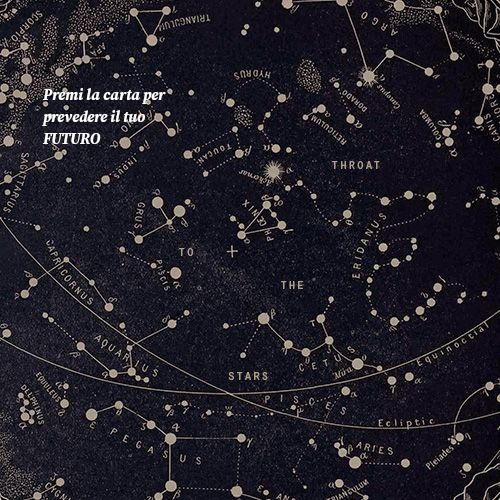
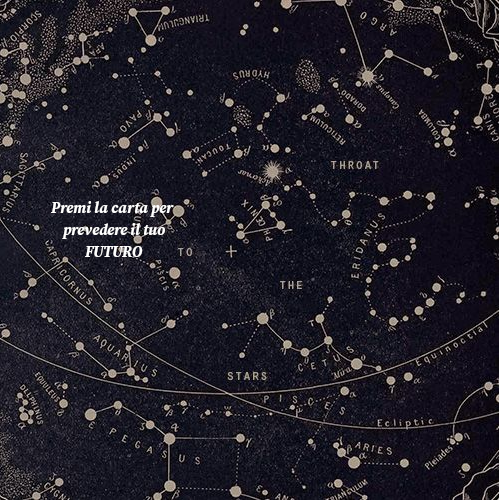
sistemazione scritte e poco altro

diff --git a/objects.py b/objects.py
@@ -4,7 +4,7 @@ import sys
 from pygame.locals import *
 import random
 
-#problemi uguali/simili sia con sfera che con carta, le scritte compaiono solo per poco (non stampa anche le carte)
+
 
 
 #text_font = pygame.font.SysFont("Spectral" , 30)
@@ -49,7 +49,7 @@ class Button():
 class Carta():    
     def __init__(self, screen, pos, size) -> None:
         self.screen = screen
-        self.rect = pygame.Rect(pos[0], pos[1], size[0], size[1]) #questi dati andranno cabiati ma per ora fingeremo che andranno bene
+        self.rect = pygame.Rect(pos[0], pos[1], size[0], size[1]) 
         self.image = pygame.image.load('immagini/dietro.png')
         self.image = pygame.transform.scale(self.image, size)
 
@@ -68,117 +68,149 @@ class Carta():
 
     def genera(self,size):
         n= random.randint(0,22)   
-                 #tutte le dimensioni e posizioni sono messe momentaneamente a caso
+                 
         if n== 0:
-            self.image = pygame.image.load('immagini/mattovero.png')
+            self.image = pygame.image.load('immagini/mattoveroo.png')
             self.image = pygame.transform.scale(self.image, size)
-            self.draw_text("intraprenderai un nuovo viaggio, un nuovo inizio,guidato dai tuoi soli istinti che ", self.draw_text, (255,255,255), 65,510)
-            self.draw_text("ti condurranno attraverso nuove strade che si possono rivelare sia positive che negative.", self.draw_text, (255,255,255), 65,525)
+            self.draw_text("intraprenderai un nuovo viaggio, un nuovo inizio,guidato dai tuoi soli istinti che ", self.draw_text, (255,255,255), 50,510)
+            self.draw_text("ti condurranno attraverso nuove strade che si possono rivelare sia positive che negative.", self.draw_text, (255,255,255), 50,525)
         
         elif n==1:
             self.image = pygame.image.load('immagini/magovero.png')
             self.image = pygame.transform.scale(self.image, size)
-            self.draw_text("La tua grande volontà farà si che seguendo la ragione riuscirai a portare a termine ", self.draw_text, (255,255,255), 65,510)
-            self.draw_text("tutti i tuoi progetti e riuscirai a raggiungere i tuoi più grandi obbiettivi.", self.draw_text, (255,255,255), 65,525)
+            self.draw_text("La tua grande volontà farà si che seguendo la ragione riuscirai a portare a termine ", self.draw_text, (255,255,255), 50,510)
+            self.draw_text("tutti i tuoi progetti e riuscirai a raggiungere i tuoi più grandi obbiettivi.", self.draw_text, (255,255,255), 50,525)
+        
         elif n==2:
             self.image = pygame.image.load('immagini/pretessa.png')
             self.image = pygame.transform.scale(self.image, size)
-            self.draw_text("Il periodo difficile che stai affrontando non durerà per sempre, è necessario che tu porti pazienza e faccia affidamento alla tua intuizione.", self.draw_text, (255,255,255), 220,150)
-       
+            self.draw_text("Il periodo difficile che stai affrontando non durerà per sempre, ", self.draw_text, (255,255,255), 50,510)
+            self.draw_text("è necessario che tu porti pazienza e faccia affidamento alla tua intuizione.", self.draw_text, (255,255,255), 50,525)
+        
         elif n==3:
             self.image = pygame.image.load('immagini/imperatrice.png')
             self.image = pygame.transform.scale(self.image, size)
-            self.draw_text("La ricchezza non è l'unico tipo di abbndanza esistente, e tu stai attraendo proprio uno di questi, si consapevole delle tue doti e delle tue capacità perchè gli altri lo sono.", self.draw_text, (255,255,255), 220,150)
+            self.draw_text("La ricchezza non è l'unico tipo di abbndanza esistente, e tu stai attraendo proprio ", self.draw_text, (255,255,255), 50,510)
+            self.draw_text("uno di questi, si consapevole delle tue doti e delle tue capacità perchè gli altri lo sono.", self.draw_text, (255,255,255), 50,525)
        
         elif n==4:
             self.image = pygame.image.load('immagini/imperatore.png')
             self.image = pygame.transform.scale(self.image, size)
-            self.draw_text("Ti si pareranno davanti agli occhi scelte difficili,ma il tuo autocontrollo e la predominanza dell'influenza della mente ti renderanno semplice affrontare queste situazioni.", self.draw_text, (255,255,255), 220,150)
-       
+            self.draw_text("Ti si pareranno davanti agli occhi scelte difficili,ma il tuo autocontrollo e la predominanza", self.draw_text, (255,255,255), 50,510)
+            self.draw_text("dell'influenza della mente ti renderanno semplice affrontare queste situazioni.", self.draw_text, (255,255,255), 50,525)
+        
         elif n==5:
             self.image = pygame.image.load('immagini/ierofante.png')
             self.image = pygame.transform.scale(self.image, size)
-            self.draw_text("Fidati di te stesso, non lasciarti influenzare ne dalle scelte degli altri ne da tutto ciò che ti circonda, qualsiasi sia il probelma che ti sta frenando sappi che hai le risposte a tutto dentro di te.", self.draw_text, (255,255,255), 220,150)
-       
+            self.draw_text("Fidati di te stesso, non lasciarti influenzare ne dalle scelte degli altri ne ", self.draw_text, (255,255,255), 50,510)
+            self.draw_text("da tutto ciò che ti circonda,qualsiasi sia il probelma che ti sta frenando", self.draw_text, (255,255,255), 50,525)
+            self.draw_text("sappi che hai le risposte a tutto dentro di te.", self.draw_text, (255,255,255), 50,540)
+        
         elif n==6:
             self.image = pygame.image.load('immagini/amanti.png')
             self.image = pygame.transform.scale(self.image, size)
-            self.draw_text("La carta della dualità non solo interiore, ma anche come confronto con un altra persona, questa carta indica la nscità di una relazione amorosa o non.", self.draw_text, (255,255,255), 220,150)
-       
+            self.draw_text("La carta della dualità non solo interiore, ma anche come confronto con un altra persona,", self.draw_text, (255,255,255), 50,510)
+            self.draw_text("questa carta indica la nscità di una relazione amorosa o non.", self.draw_text, (255,255,255), 50,525)
+        
         elif n==7:
             self.image = pygame.image.load('immagini/carro.png')
             self.image = pygame.transform.scale(self.image, size)
-            self.draw_text("Una forte energia prenderà posseso di questo periodo, e determinazione è la parola chiave, quest'energia sarà in grando di farti aprire gli occhi e i tuoi sogni smetteranno di sembrare irrealizzabili.", self.draw_text, (255,255,255), 220,150)
+            self.draw_text("Una forte energia prenderà posseso di questo periodo,", self.draw_text, (255,255,255), 50,510)
+            self.draw_text("determinazione è la parola chiave,quest'energia sarà in grando di farti aprire gli occhi ", self.draw_text, (255,255,255), 50,525)
+            self.draw_text("e i tuoi sogni smetteranno di sembrare irrealizzabili.", self.draw_text, (255,255,255), 50,540)
         
         elif n==8:
             self.image = pygame.image.load('immagini/forza.png')
             self.image = pygame.transform.scale(self.image, size)
-            self.draw_text("La tua forza è necesssaria a raggiugere la felicità non solo la tua ma anche quella altrui, quindi spezza i vincoli e affronta le tue paure perchè questo è il momento adatto.", self.draw_text, (255,255,255), 220,150)
-
+            self.draw_text("La tua forza è necesssaria a raggiugere la felicità non solo la tua ma anche quella altrui,", self.draw_text, (255,255,255), 50,510)
+            self.draw_text("quindi spezza i vincoli e affronta le tue paure perchè questo è il momento adatto.", self.draw_text, (255,255,255), 50,525)
+        
         elif n==9:
             self.image = pygame.image.load('immagini/eremita.png')
             self.image = pygame.transform.scale(self.image, size)
-            self.draw_text("La vertità che stai cercando è troppo grande per essere trovata grazie alle tue sole forze, è necessario che tu ti rivolga all'aiuto di qualcuno da te fidato, solo grazie a questo potrai trovarla.", self.draw_text, (255,255,255), 220,150)
-
+            self.draw_text("La vertità che stai cercando non può essere trovata grazie alle tue sole forze,", self.draw_text, (255,255,255), 50,510)
+            self.draw_text("è necessario che tu ti rivolga all'aiuto di qualcuno da te fidato, ", self.draw_text, (255,255,255), 50,525)
+            self.draw_text("solo grazie a questo potrai trovarla.", self.draw_text, (255,255,255), 50,540)
+        
         elif n==10:
             self.image = pygame.image.load('immagini/ruota.png')
             self.image = pygame.transform.scale(self.image, size)
-            self.draw_text("Improvvisi cambiamenti caaratterizzano questo momento; positivi o negativi che essi siano ogni attimo è destinato a passare e così le stituazioni che ti si presenteranno, è importante ricordare che tutto è temporaneo e quindi di vivere nel presente.", self.draw_text, (255,255,255), 220,150)
-
+            self.draw_text("Improvvisi cambiamenti caratterizzano questo momento;positivi o negativi che essi  ", self.draw_text, (255,255,255), 50,510)
+            self.draw_text("siano ogni attimo è destinato a passare e così anche le stituazioni che ti si presenteranno, ", self.draw_text, (255,255,255), 50,525)  
+            self.draw_text("è importante ricordare che tutto è temporaneo e quindi di vivere nel presente.", self.draw_text, (255,255,255), 50,540)  
+        
         elif n==11:
             self.image = pygame.image.load('immagini/giustizia.png')
             self.image = pygame.transform.scale(self.image, size)
-            self.draw_text("Il karma sarà il concetto predominate di questo momento, prendi ogni decisioe ricordandoti di manternere un'equilibrio, le scelte potrebbero rivelarsi difficili, ma non devi permettere che questo possa influenzare il tuo giudizio.", self.draw_text, (255,255,255), 220,150)
+            self.draw_text("Il karma sarà il concetto predominate di questo momento, prendi ogni decisione ", self.draw_text, (255,255,255), 50,510)
+            self.draw_text("ricordandoti di manternere un'equilibrio,le scelte potrebbero rivelarsi difficili,", self.draw_text, (255,255,255), 50,525)
+            self.draw_text("ma non devi permettere che questo possa influenzare il tuo giudizio.", self.draw_text, (255,255,255), 50,540)
         
         elif n==12:
             self.image = pygame.image.load('immagini/appeso.png')
             self.image = pygame.transform.scale(self.image, size)
-            self.draw_text("La vita ti sta ponendo davanti ad un bivio ed una delle due scelte implicherà un sacrificio che può riguardare l'allontanamento da persone,ideali o ricordi.", self.draw_text, (255,255,255), 220,150)
+            self.draw_text("La vita ti sta ponendo davanti ad un bivio ed una delle due scelte implicherà un sacrificio", self.draw_text, (255,255,255), 50,510)
+            self.draw_text("che può riguardare l'allontanamento da persone,ideali o ricordi.", self.draw_text, (255,255,255), 50,525)
 
         elif n==13:
             self.image = pygame.image.load('immagini/morte.png')
             self.image = pygame.transform.scale(self.image, size)
-            self.draw_text("Non potrai più pensare di fare affidamento su determinate persone o ideali; il tuò sarà un periodo di cambiamento doloroso e difficile, ma necessario.", self.draw_text, (255,255,255), 220,150)
+            self.draw_text("Non potrai più pensare di fare affidamento su determinate persone o ideali;", self.draw_text, (255,255,255), 50,510)
+            self.draw_text("il tuò sarà un periodo di cambiamento doloroso e difficile, ma necessario.", self.draw_text, (255,255,255), 50,525)
         
         elif n==14:
             self.image = pygame.image.load('immagini/angelo.png')
             self.image = pygame.transform.scale(self.image, size)
-            self.draw_text("E' il momento di concentrarsi sulle relazioni che siano famigliari, amichevoli o amorose; spesso queste andranno bene, ma  in caso contrario dovrai provare diversi approcci prima di raggiungere una stabilità.", self.draw_text, (255,255,255), 220,150)
+            self.draw_text("E' il momento di concentrarsi sulle relazioni che siano famigliari, ", self.draw_text, (255,255,255), 50,510)
+            self.draw_text("amichevoli o amorose;spesso queste andranno bene, ma in caso contrario ", self.draw_text, (255,255,255), 50,525)
+            self.draw_text("dovrai provare diversi approcci prima di raggiungere una stabilità.", self.draw_text, (255,255,255), 50,540)
 
         elif n==15:
             self.image = pygame.image.load('immagini/diavolo.png')
             self.image = pygame.transform.scale(self.image, size)
-            self.draw_text("In questo momento potresti sentirti prigioniero di te stesso, ma non è così. non fermarti alle apparenze perchè quello che si presenta come vicolo cieco potrebbe in realtà essere un bivio: c'è sempre una scelta.", self.draw_text, (255,255,255), 220,150)
+            self.draw_text("In questo momento potresti sentirti prigioniero di te stesso, ma non è così.", self.draw_text, (255,255,255), 50,510)
+            self.draw_text("Non fermarti alle apparenze perchè quello che si presenta come vicolo cieco ", self.draw_text, (255,255,255), 50,525)
+            self.draw_text("potrebbe in realtà essere un bivio: c'è sempre una scelta.", self.draw_text, (255,255,255), 50,540)
         
         elif n==16:
             self.image = pygame.image.load('immagini/torre.png')
             self.image = pygame.transform.scale(self.image, size)
-            self.draw_text("Un cambiamento drastico ti si presenterà davanti agli occhi. Non solo ci potranno essere persone che smetteranno di far parte della tua vita, ma anche le tue ambizioni potranno sgretolarsi davanti ai tuoi occhi.", self.draw_text, (255,255,255), 220,150)
+            self.draw_text("Un cambiamento drastico ti si presenterà davanti agli occhi.", self.draw_text, (255,255,255), 50,510)
+            self.draw_text("Non solo ci potranno essere persone che smetteranno di far parte della tua vita,", self.draw_text,(255,255,255), 50,525)
+            self.draw_text("ma anche le tue ambizioni potranno sgretolarsi davanti ai tuoi occhi.", self.draw_text,(255,255,255), 55,540)
 
         elif n==17:
             self.image = pygame.image.load('immagini/stelle.png')
             self.image = pygame.transform.scale(self.image, size)
-            self.draw_text("Un periodo positivo ti attende, la fiducia in te stesso caratterizzerà questo momento e la tua senzazione non sarà fittizia poichè porterai a termine molti obbiettivi.", self.draw_text, (255,255,255), 220,150)
+            self.draw_text("Un periodo positivo ti attende, la fiducia in te stesso caratterizzerà questo momento", self.draw_text, (255,255,255), 50,510)
+            self.draw_text("e la tua senzazione non sarà fittizia poichè porterai a termine molti obbiettivi.", self.draw_text, (255,255,255), 50,525)
         
         elif n==18:
             self.image = pygame.image.load('immagini/luna.png')
             self.image = pygame.transform.scale(self.image, size)
-            self.draw_text("Indecisione,confusione e un'apparente interminabile attesa caratterizzano questi giorni, è necessario quindi che tu non perda la fiducia in te stesso e sopratutto che ti fidi della tua mente e del tuo intelletto.", self.draw_text, (255,255,255), 220,150)
+            self.draw_text("Indecisione,confusione e un'apparente interminabile attesa caratterizzano questi giorni,", self.draw_text, (255,255,255), 50,510)
+            self.draw_text("è necessario quindi che tu non perda la fiducia in te stesso e sopratutto ", self.draw_text, (255,255,255), 50,525)
+            self.draw_text("che ti fidi della tua mente e del tuo intelletto.", self.draw_text, (255,255,255), 50,540)
 
         elif n==19:
             self.image = pygame.image.load('immagini/sole.png')
             self.image = pygame.transform.scale(self.image, size)
-            self.draw_text("Attimi di gioia,libertà e spensieratezza saranno frequenti in questo periodo, ricorda però di rimanere comunque concentrato sui tuoi obbiettivi.", self.draw_text, (255,255,255), 220,150)
+            self.draw_text("Attimi di gioia,libertà e spensieratezza saranno frequenti in questo periodo,", self.draw_text, (255,255,255), 50,510)
+            self.draw_text("ricorda però di rimanere comunque concentrato sui tuoi obbiettivi.", self.draw_text, (255,255,255), 50,525)
 
         elif n==20:
             self.image = pygame.image.load('immagini/giudizio.png')
             self.image = pygame.transform.scale(self.image, size)
-            self.draw_text("Nelle tue decsione ultimamente stai contando troppo sul tuo istinto senza fermarti a ragionare e a contemplare le scelte possibili, è necessario quindi che tu rallenti e analizzi al meglio le situazioni.", self.draw_text, (255,255,255), 220,150)
+            self.draw_text("Nelle tue decsioni ultimamente stai contando troppo sul tuo istinto senza fermarti ", self.draw_text, (255,255,255), 50,510)
+            self.draw_text("a ragionare e a contemplare le scelte possibili,è necessario quindi ", self.draw_text,(255,255,255), 50,525)
+            self.draw_text("che tu rallenti e analizzi al meglio le situazioni.", self.draw_text, (255,255,255), 50,540)
 
         elif n==21:
             self.image = pygame.image.load('immagini/mondo.png')
             self.image = pygame.transform.scale(self.image, size)
-            self.draw_text("Il periodo complesso che satvi affrontando si sta concludendo per questo senti il peso del mondo su di te, se necessario chiedi aiuto, ricorda però che dopo aver concluso un percoso se ne aprirà uno nuovo subito dopo.", self.draw_text, (255,255,255), 220,150)
+            self.draw_text("Il periodo complesso che satvi affrontando si sta concludendo per questo ", self.draw_text, (255,255,255), 50,510)
+            self.draw_text("senti il peso del mondo su di te,se necessario chiedi aiuto, ricorda però ", self.draw_text, (255,255,255), 50,525)
+            self.draw_text("che dopo aver concluso un percoso se ne aprirà uno nuovo subito dopo.", self.draw_text, (255,255,255), 50,540)
         
 
     def checkForInput(self,position):
@@ -208,7 +240,7 @@ class Sfera():
                'Il mondo gira a tuo favore','Mi dispiace','Sarà per la prossima volta','Fifty fifty','Ho chiesto in giro e mi hanno detto di no',
                'Si,corri', 'Se è il cuore a dirtelo allora è la cosa giusta']
         l= random.choice(lista)  
-        self.draw_text(l,'Spectral',(0,0,0), (400,400),(362,463)) 
+        self.draw_text(l,'Spectral',(0,0,0), (200,200),(100,100)) 
 
     
     def checkForInput(self,position):

diff --git a/main.py b/main.py
@@ -46,17 +46,17 @@ while True:
     carta=Carta(screen, (300,50),(250,420))   
 
     while start and not sfera:                                       #lettura
-        sfondino = pygame.image.load('immagini/cielonotte lettura.png')
-        sfondino = pygame.transform.scale(sfondino,window_size)
+        # sfondino = pygame.image.load('immagini/cielonotte lettura.png')
+        # sfondino = pygame.transform.scale(sfondino,window_size)
 
-        screen.fill((0 ,0 ,0))
-        screen.blit (sfondino, (0,0))
+        # screen.fill((0 ,0 ,0))
+        # screen.blit (sfondino, (0,0))
 
         pygame.display.set_caption('lettura')
 
         LETTURA_MOUSE_POS= pygame.mouse.get_pos()
         
-        LETTURA_BACK = Button((50, 500), (50, 50), screen, "<--")
+        LETTURA_BACK = Button((700, 50), (50, 50), screen, "<--")
         LETTURA_BACK.draw()
 
         girata = False    
@@ -86,7 +86,7 @@ while True:
                    
         if girata== True:
              screen.fill((0 ,0 ,0))
-             screen.blit (sfondino, (0,0))
+             screen.blit (background, (0,0))
              carta.genera((250,420))
              carta.draw()
              if LETTURA_BACK.rect.collidepoint(MOUSE_POS):
@@ -111,10 +111,17 @@ while True:
 
     
     while start and sfera:                                      #sfera
+        # sfondone= pygame.image.load('immagini/cielonotte sfera.png')
+        # sfondone = pygame.transform.scale(sfondone,window_size)
+
+        # screen.fill((0 ,0 ,0))
+        # screen.blit (sfondone, (0,0))
+        
+        
         pygame.display.set_caption('sfera')
         SFERA_MOUSE_POS= pygame.mouse.get_pos()
         
-        SFERA_BACK = Button((50, 500), (50, 50), screen, "<--")
+        SFERA_BACK = Button((700, 50), (50, 50), screen, "<--")
         SFERA_BACK.draw()
         scritta = False
 
@@ -122,7 +129,7 @@ while True:
             SFERA_BACK.changeColor()
             SFERA_BACK.draw()
         
-        sferascuscu=Sfera(screen, (250,70),(362,463))
+        sferascuscu=Sfera(screen, (240,50),(342,443))
         
         for event in pygame.event.get():
             if event.type == pygame.QUIT:
@@ -137,7 +144,7 @@ while True:
                    scritta= True
         
         
-        
+        sferascuscu.draw()
         
         if scritta== True:
             screen.fill((0 ,0 ,0))
@@ -148,7 +155,7 @@ while True:
             SFERA_BACK.changeColor()
             SFERA_BACK.draw()
         
-        sferascuscu.draw()
+        
         
         
         
